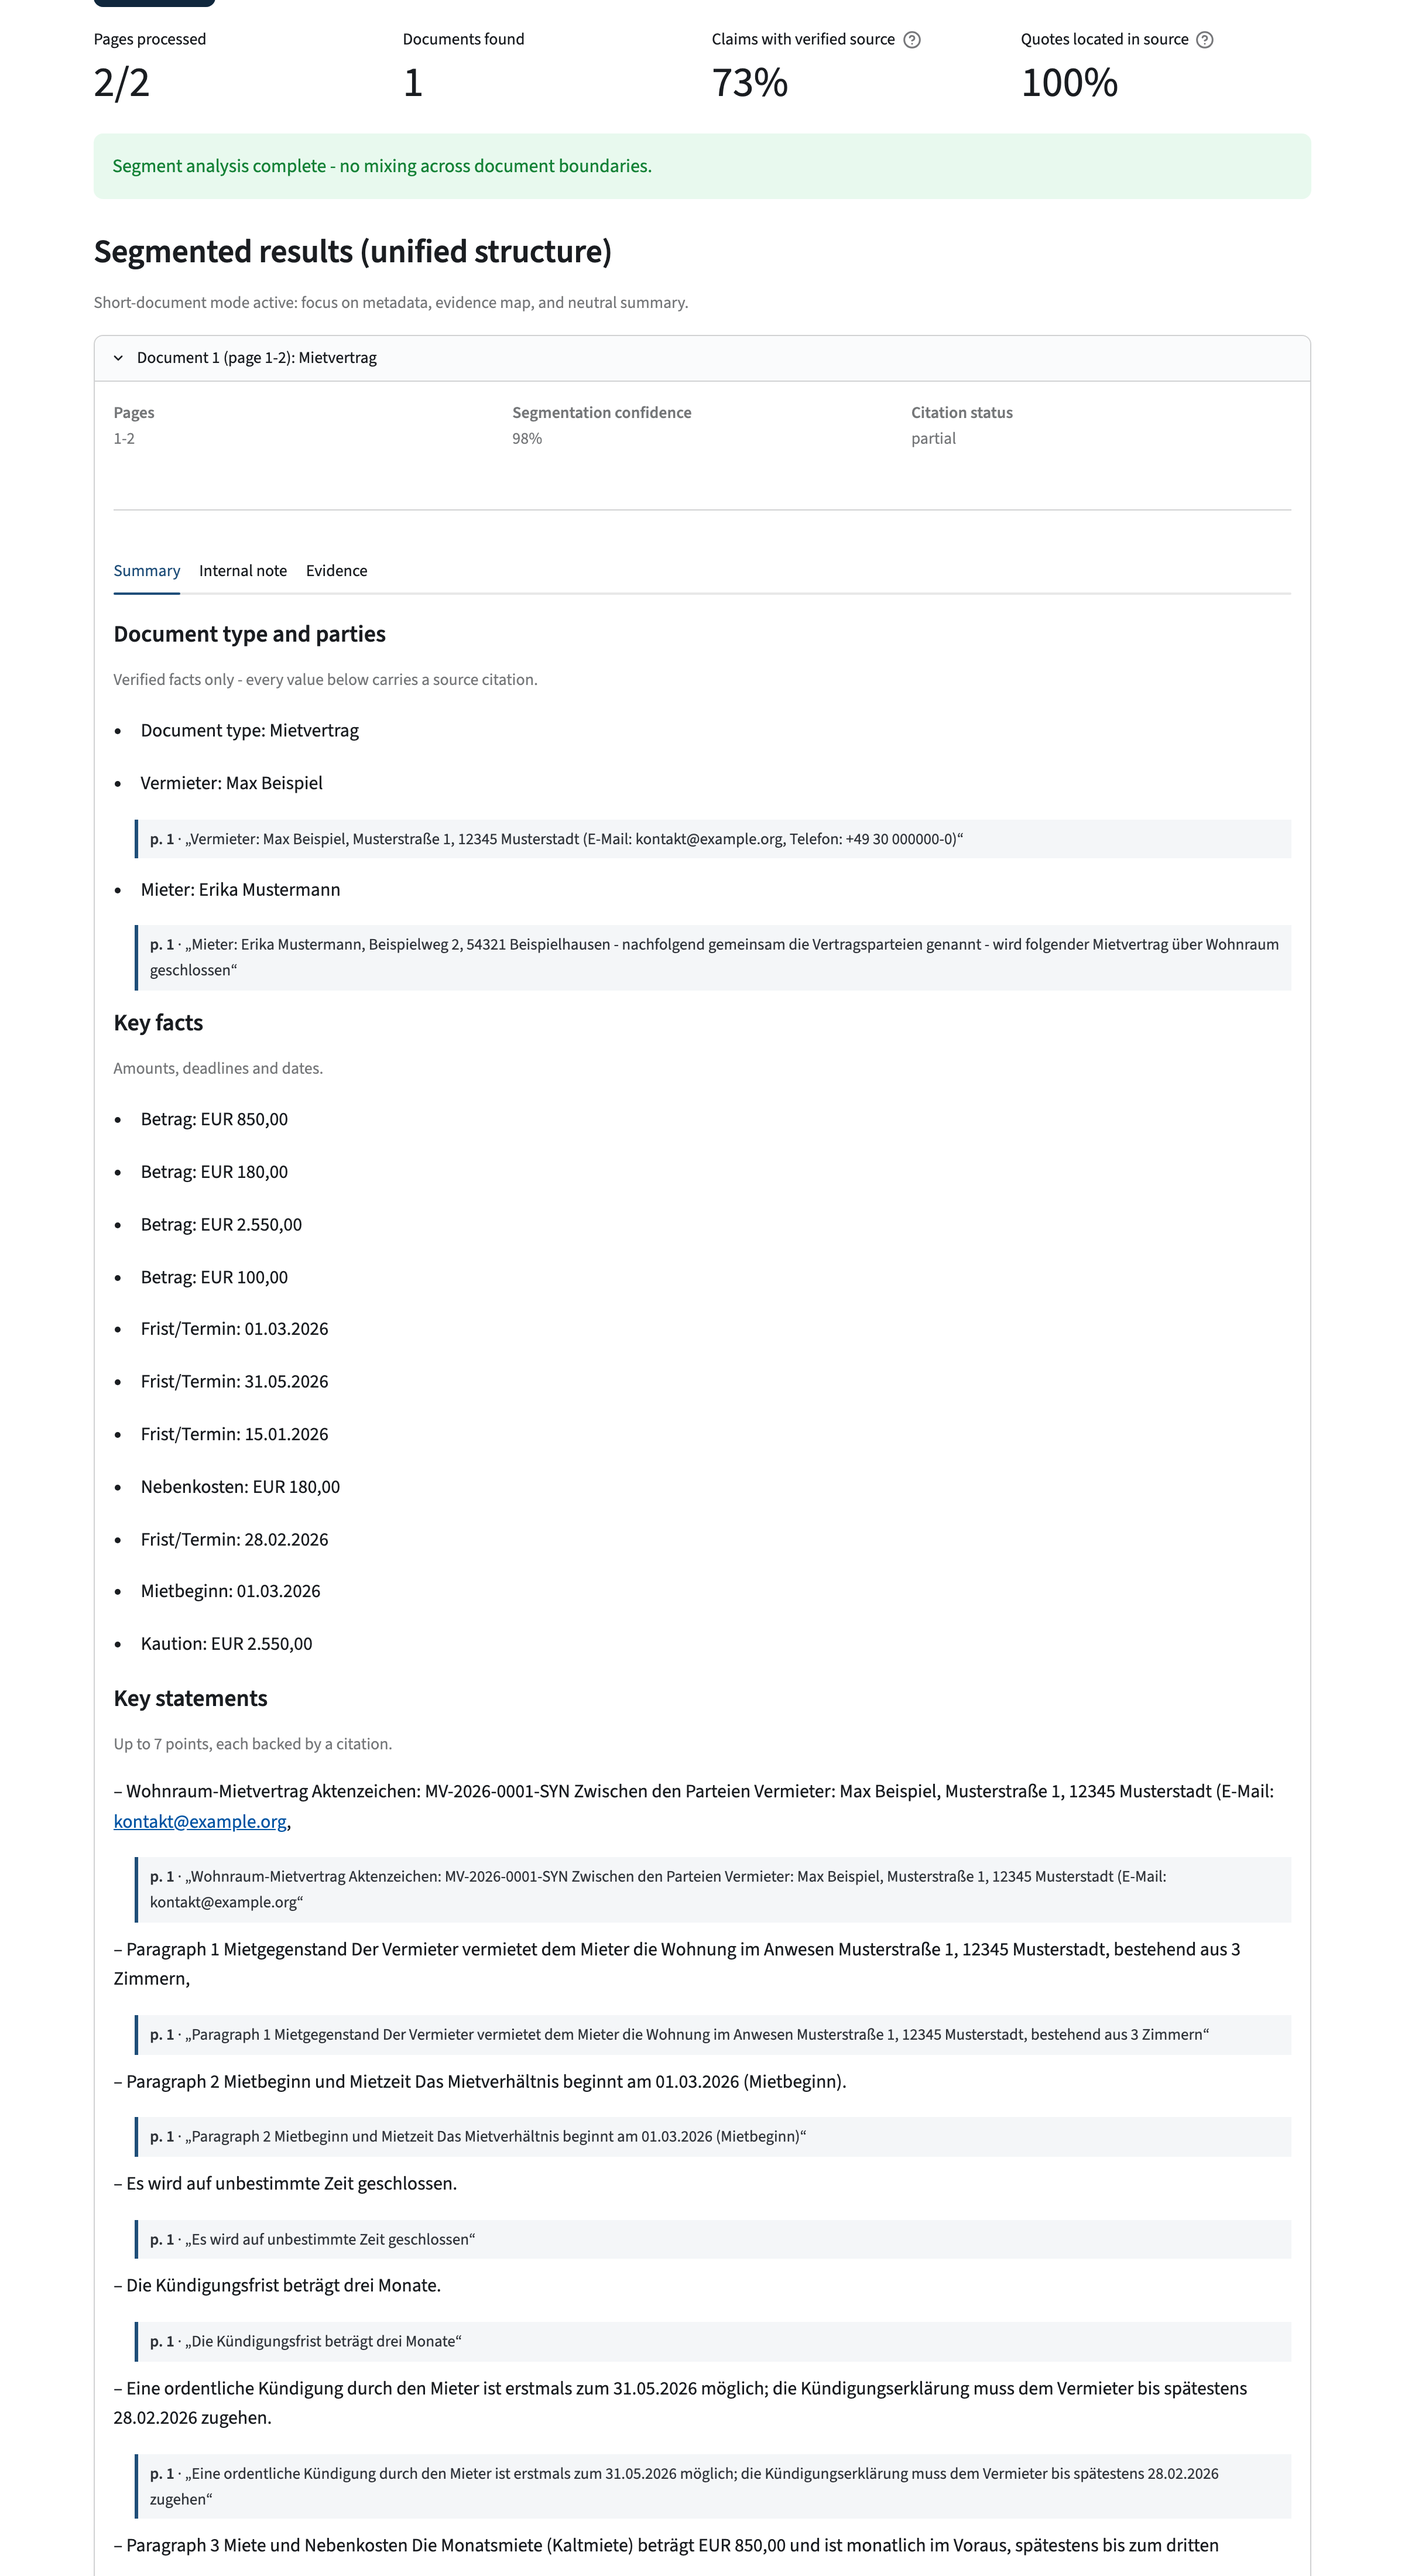
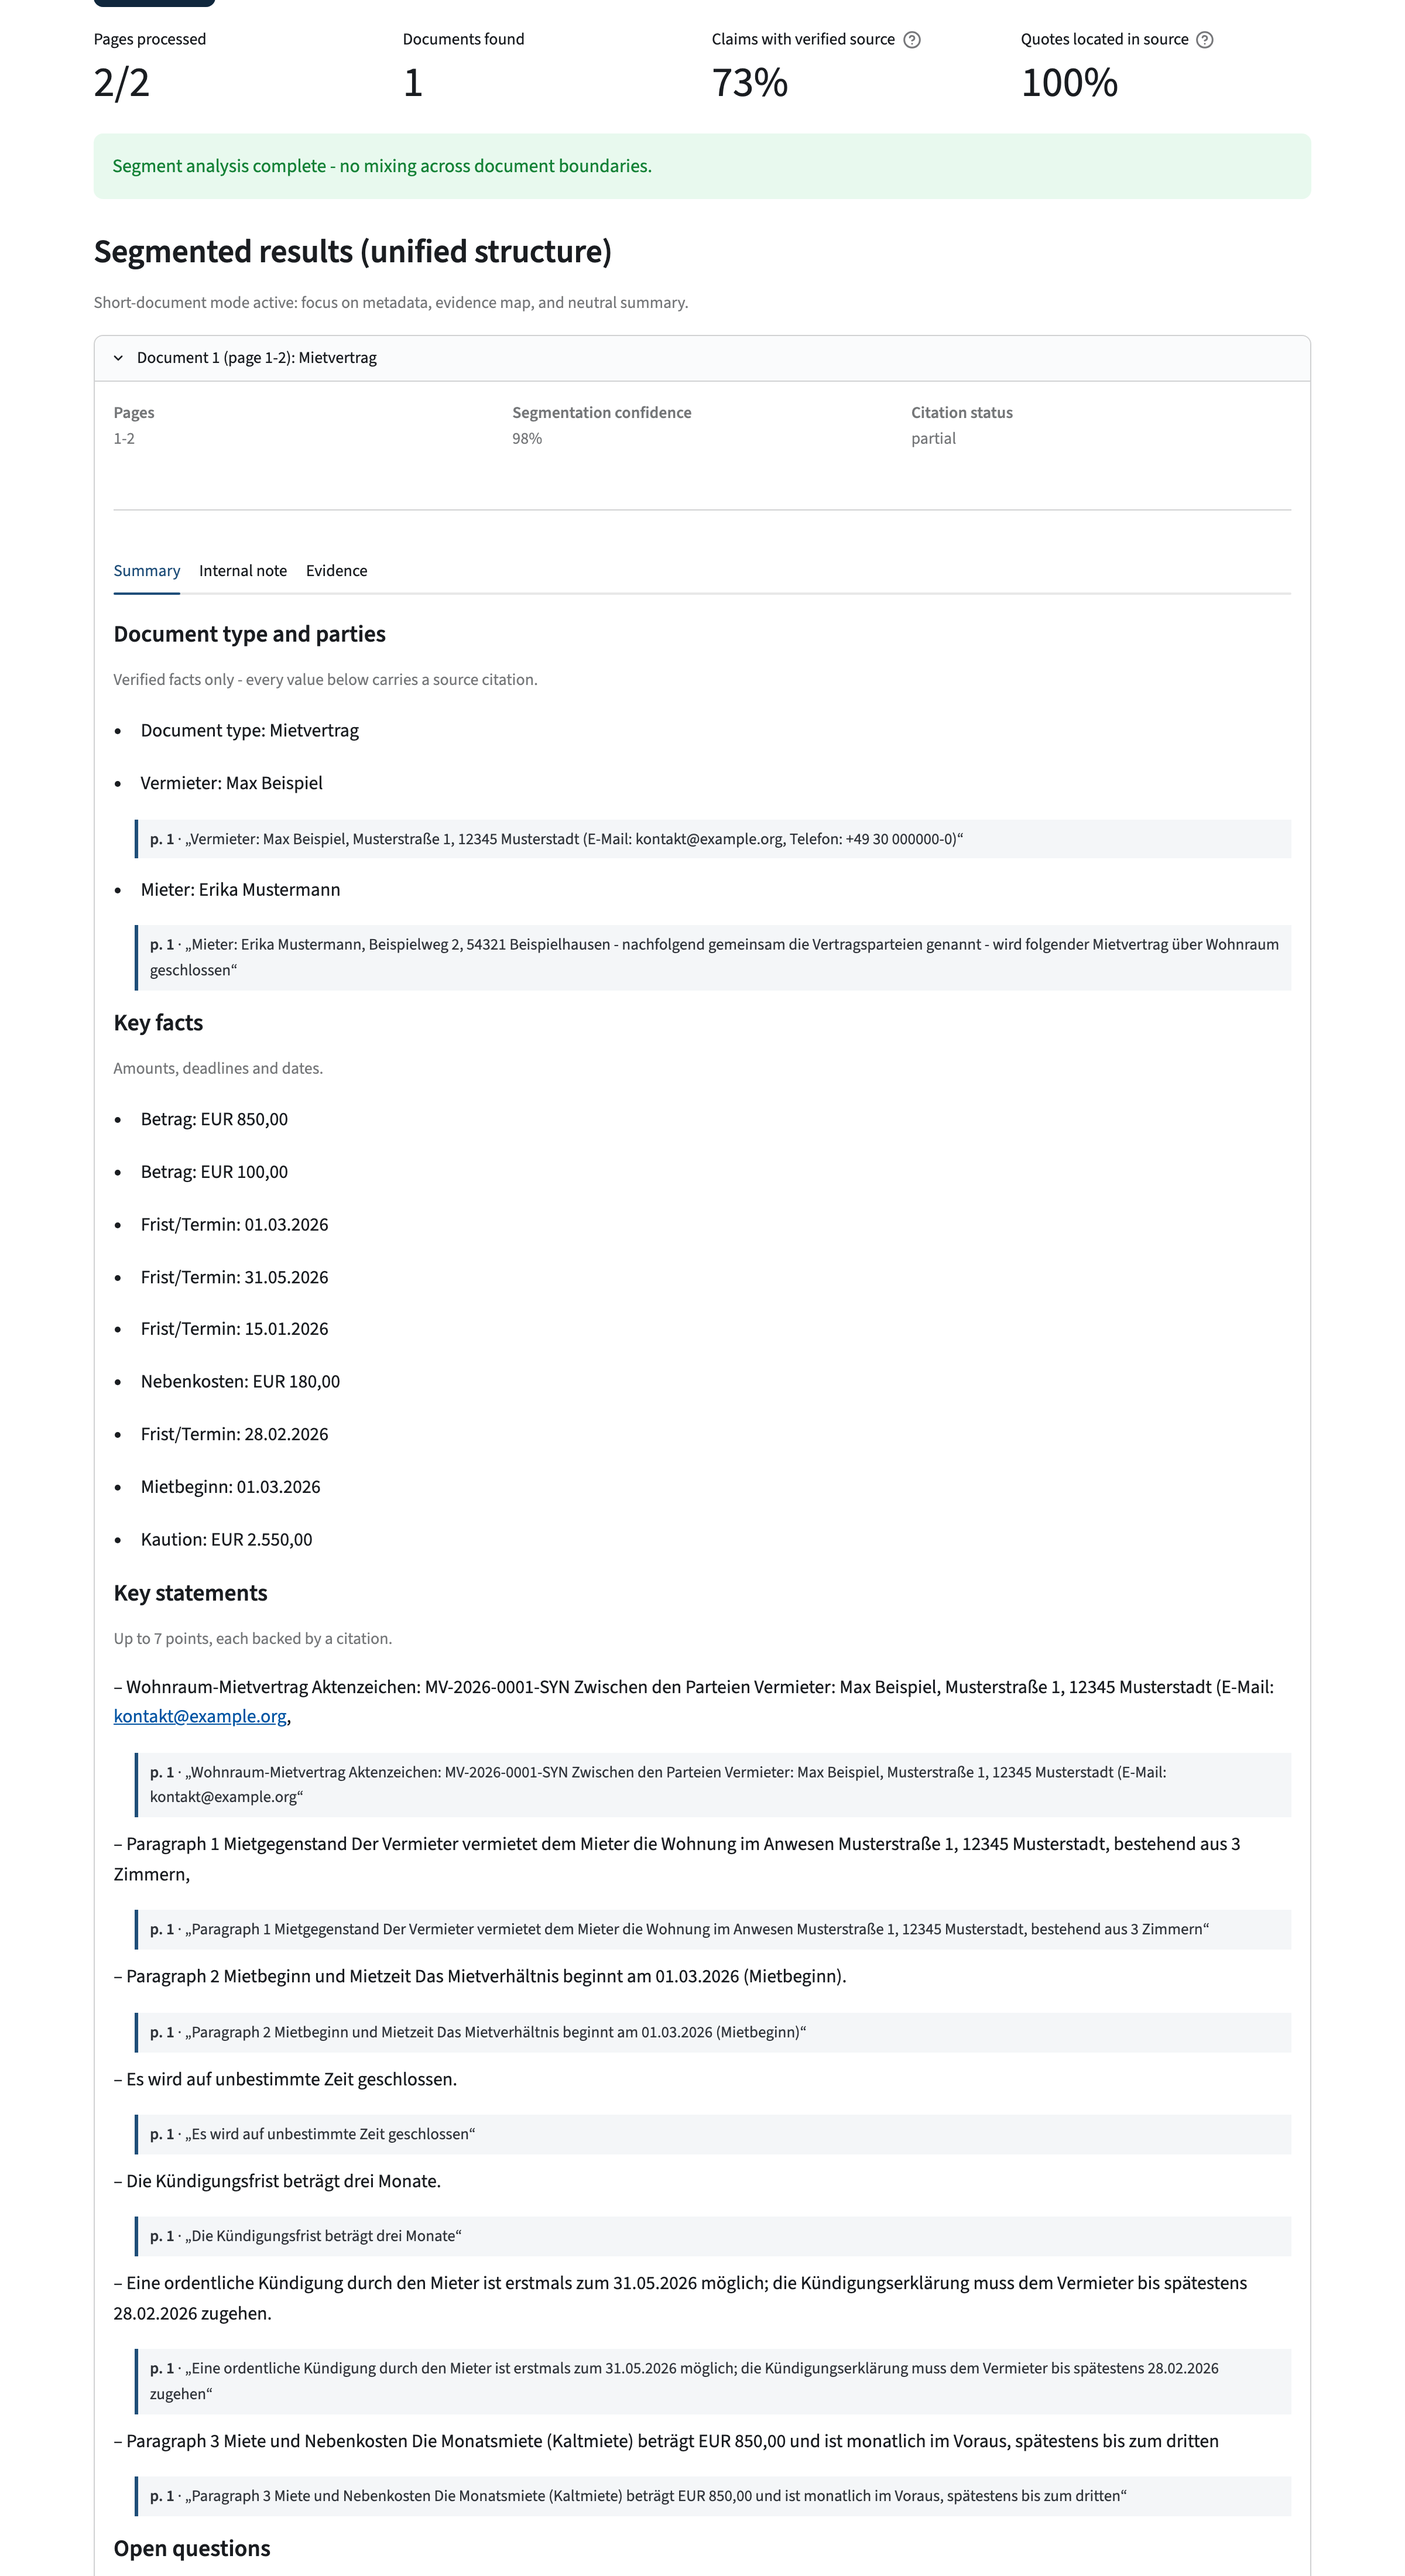
fix: drop contentless amount rows the specific label already covers
"Betrag: EUR 2.550,00" next to "Kaution: EUR 2.550,00" reads as a
duplicate - the generic row names no subject matter and adds nothing.
Suppression applies only to contentless labels ("Betrag", "Zahlung"),
and only when some labelled item carries the same amount; a generic row
with no counterpart is kept so no value is lost.

"Miete" stays out of that set deliberately: rent 4.200 alongside arrears
4.200 is one month in arrears - two facts sharing an amount, not a
duplicate. An existing test in test_amount_labeling.py pins that case.

Also state in the README what "73% verified" means, so the number reads
as the feature it is rather than as an accuracy defect.

Changed region(s): [[0.0625, 0.5605, 0.875, 0.9964], [0.0938, 0.467, 0.2188, 0.4982], [0.1562, 0.5293, 0.2188, 0.5605]]

diff --git a/tests/test_merge_llm_regex_eckdaten.py b/tests/test_merge_llm_regex_eckdaten.py
@@ -1,0 +1,145 @@
+"""
+tests/test_merge_llm_regex_eckdaten.py
+
+Tests für _merge_llm_regex_eckdaten (core/export_render.py).
+
+Kern-Vertrag: ein generisches Label ("Betrag") trägt keine Information mehr,
+sobald ein spezifisches Label denselben Betrag abdeckt ("Kaution: EUR 2.550,00").
+In der gerenderten Liste liest sich das als Dublette. Umgekehrt darf ein
+generischer Eintrag OHNE spezifisches Gegenstück nicht verschwinden — sonst
+geht ein Betrag ganz verloren.
+
+Die Suppression muss quellenunabhängig sein: es darf keine Rolle spielen, ob
+das spezifische Label aus den LLM-Items oder den Regex-Evidence-Items stammt.
+"""
+
+import unittest
+
+from core.export_render import _merge_llm_regex_eckdaten
+
+
+DOC_TYPE = "Mietvertrag"
+
+
+class TestGenerischeDublettenUnterdrueckt(unittest.TestCase):
+    """Generische Betrag-Zeilen verschwinden, wenn ein spezifisches Label greift."""
+
+    def setUp(self):
+        # Nachstellung des realen Renderer-Outputs für samples/01_mietvertrag_synthetic.pdf
+        self.llm = [
+            {"label": "Betrag", "wert": "EUR 850,00"},
+            {"label": "Betrag", "wert": "EUR 180,00"},
+            {"label": "Betrag", "wert": "EUR 2.550,00"},
+            {"label": "Betrag", "wert": "EUR 100,00"},
+            {"label": "Nebenkosten", "wert": "EUR 180,00"},
+            {"label": "Kaution", "wert": "EUR 2.550,00"},
+        ]
+
+    def _paare(self, items):
+        return {(i.get("label"), i.get("wert")) for i in items}
+
+    def test_generisch_mit_spezifischem_gegenstueck_entfernt(self):
+        out = _merge_llm_regex_eckdaten(self.llm, [], DOC_TYPE)
+        paare = self._paare(out)
+        self.assertNotIn(("Betrag", "EUR 180,00"), paare)
+        self.assertNotIn(("Betrag", "EUR 2.550,00"), paare)
+
+    def test_spezifische_labels_bleiben(self):
+        out = _merge_llm_regex_eckdaten(self.llm, [], DOC_TYPE)
+        paare = self._paare(out)
+        self.assertIn(("Nebenkosten", "EUR 180,00"), paare)
+        self.assertIn(("Kaution", "EUR 2.550,00"), paare)
+
+    def test_generisch_ohne_gegenstueck_bleibt_erhalten(self):
+        """Kein spezifisches Label → Betrag muss bleiben, sonst Informationsverlust."""
+        out = _merge_llm_regex_eckdaten(self.llm, [], DOC_TYPE)
+        werte = {i.get("wert") for i in out}
+        self.assertIn("EUR 850,00", werte)
+        self.assertIn("EUR 100,00", werte)
+
+    def test_kein_betrag_geht_verloren(self):
+        """Jeder Betrag der Eingabe erscheint noch unter irgendeinem Label."""
+        out = _merge_llm_regex_eckdaten(self.llm, [], DOC_TYPE)
+        vorher = {i["wert"] for i in self.llm}
+        nachher = {i["wert"] for i in out}
+        self.assertEqual(vorher, nachher)
+
+
+class TestQuellenunabhaengigkeit(unittest.TestCase):
+    """Das spezifische Label darf auch aus den Regex-Items kommen."""
+
+    def test_spezifisch_nur_aus_regex_unterdrueckt_generisch(self):
+        out = _merge_llm_regex_eckdaten(
+            [{"label": "Betrag", "wert": "EUR 2.550,00"}],
+            [{
+                "field": "kaution",
+                "value": "EUR 2.550,00",
+                "quote": "Die Kaution beträgt EUR 2.550,00",
+                "page": 1,
+            }],
+            DOC_TYPE,
+        )
+        self.assertFalse(
+            [i for i in out if i.get("label") == "Betrag"],
+            "generisches Label überlebt, wenn das spezifische erst aus den "
+            "Regex-Items kommt → Ergebnis wäre reihenfolgeabhängig",
+        )
+
+
+class TestBestehendeVertraege(unittest.TestCase):
+    """Verhalten, das der Fix nicht verändern darf."""
+
+    def test_leere_llm_items_geben_leere_liste(self):
+        """Caller unterscheidet daran den Regex-only-Fallback."""
+        out = _merge_llm_regex_eckdaten(
+            [], [{"field": "kaution", "value": "EUR 1,00", "quote": "", "page": 1}], DOC_TYPE
+        )
+        self.assertEqual(out, [])
+
+    def test_mietbeginn_relabeling_bleibt_intakt(self):
+        out = _merge_llm_regex_eckdaten(
+            [{"label": "Mietbeginn", "wert": "01.03.2026"}], [], "Kaufvertrag"
+        )
+        self.assertEqual([i["label"] for i in out], ["Beginn"])
+
+    def test_mietbeginn_bleibt_in_mietdokument(self):
+        out = _merge_llm_regex_eckdaten(
+            [{"label": "Mietbeginn", "wert": "01.03.2026"}], [], DOC_TYPE
+        )
+        self.assertEqual([i["label"] for i in out], ["Mietbeginn"])
+
+    def test_sachlabel_wird_nicht_als_dublette_entfernt(self):
+        """"Miete" benennt einen Sachverhalt und darf nie unterdrückt werden.
+
+        Miete 4.200 und Rückstand 4.200 sind ein Monat Mietrückstand — zwei
+        Fakten mit zufällig gleichem Betrag, keine Dublette.
+        """
+        out = _merge_llm_regex_eckdaten(
+            [{"label": "Miete", "wert": "EUR 4.200,00"}],
+            [{
+                "field": "rueckstand",
+                "value": "EUR 4.200,00",
+                "quote": "Mietrückstand EUR 4.200,00",
+                "page": 1,
+            }],
+            DOC_TYPE,
+        )
+        labels = [i["label"] for i in out]
+        self.assertIn("Miete", labels)
+        self.assertIn("Rückstand", labels)
+
+    def test_datumswerte_nicht_von_suppression_betroffen(self):
+        """Suppression greift über kanonische Beträge - Datumsangaben bleiben unberührt."""
+        out = _merge_llm_regex_eckdaten(
+            [
+                {"label": "Betrag", "wert": "01.03.2026"},
+                {"label": "Kaution", "wert": "01.03.2026"},
+            ],
+            [],
+            DOC_TYPE,
+        )
+        self.assertEqual(len(out), 2)
+
+
+if __name__ == "__main__":
+    unittest.main()

diff --git a/core/export_render.py b/core/export_render.py
@@ -621,6 +621,19 @@ _GENERIC_ECKDATEN_LABELS: frozenset[str] = frozenset({
     "miete", "betrag", "zahlung", "mietzahlung",
 })
 
+# Labels that name no subject matter at all - they say "there is a number here"
+# and nothing else. Only these may be dropped from the LLM items when another
+# label already carries the same amount.
+#
+# Deliberately narrower than _GENERIC_ECKDATEN_LABELS: "Miete" is generic as a
+# regex fallback, but it does name a subject matter. "Miete: EUR 4.200,00"
+# alongside "Rückstand: EUR 4.200,00" is one month's rent in arrears - two
+# distinct facts that happen to share an amount, not a duplicate. Dropping one
+# would lose information rather than tidy the list.
+_CONTENTLESS_ECKDATEN_LABELS: frozenset[str] = frozenset({
+    "betrag", "zahlung",
+})
+
 
 def _merge_llm_regex_eckdaten(
     llm_items: list[dict],
@@ -629,7 +642,10 @@ def _merge_llm_regex_eckdaten(
 ) -> list[dict]:
     """FIX 4: Merge LLM-eckdaten with specific-label regex evidence items.
 
-    - LLM items are always kept.
+    - LLM items are kept, except contentless-label ones ('Betrag', 'Zahlung') whose
+      amount is already covered by a labelled item from either source - those are
+      duplicates in the rendered list. Such an item is kept when its amount has no
+      labelled counterpart, so no value is silently dropped.
     - Regex items with generic labels ('Miete', 'Betrag', 'Zahlung') are suppressed
       when an LLM item already covers the same canonical amount.
     - Regex items with specific labels ('Rückstand', 'Schadensersatz', 'Kaution')
@@ -656,9 +672,47 @@ def _merge_llm_regex_eckdaten(
     # FIX 2: Relabel "Mietbeginn" → "Beginn" when doc is not a Miet/Räumung document.
     doc_type_l = str(doc_type or "").lower()
     _is_miet_doc = any(k in doc_type_l for k in ("miet", "räum", "raeumung"))
+
+    # Amounts that some *specific* label already accounts for. Collected from both
+    # sources up front, so the outcome does not depend on the order in which the
+    # two loops below happen to append. A generic entry ("Betrag: EUR 2.550,00")
+    # carries no information once "Kaution: EUR 2.550,00" is on the list - it just
+    # reads as a duplicate. Generic entries whose amount has no specific
+    # counterpart are kept: dropping those would lose a value entirely.
+    # _norm_amount_canonical also returns a key for dates and plain words, so it
+    # alone is too broad a match here - restrict the comparison to actual amounts.
+    def _amount_key(raw: str) -> str | None:
+        text = str(raw or "")
+        if not re.search(r"\d[\d.]*,\d{2}\b", text):
+            return None
+        return _norm_amount_canonical(text) or None
+
+    specific_amounts: set[str] = set()
+    for item in llm_items:
+        lbl = str(item.get("label", "") or "").lower()
+        ca = _amount_key(item.get("wert", ""))
+        if ca and lbl and lbl not in _CONTENTLESS_ECKDATEN_LABELS:
+            specific_amounts.add(ca)
+    for ev in evidence_items or []:
+        value = str(ev.get("value", "") or "").strip()
+        if not value or value == "missing":
+            continue
+        lbl = _human_label_for_evidence(
+            str(ev.get("field", "") or "").lower(), value,
+            str(ev.get("quote", "") or ""), doc_type,
+        )
+        ca = _amount_key(value)
+        if ca and lbl and lbl.lower() not in _CONTENTLESS_ECKDATEN_LABELS:
+            specific_amounts.add(ca)
+
     merged = []
     for item in llm_items:
-        if str(item.get("label", "") or "") == "Mietbeginn" and not _is_miet_doc:
+        label = str(item.get("label", "") or "")
+        if label.lower() in _CONTENTLESS_ECKDATEN_LABELS:
+            canonical = _amount_key(item.get("wert", ""))
+            if canonical and canonical in specific_amounts:
+                continue
+        if label == "Mietbeginn" and not _is_miet_doc:
             item = dict(item)
             item["label"] = "Beginn"
         merged.append(item)

diff --git a/README.md b/README.md
@@ -17,9 +17,13 @@ management) where an unsourced claim is worse than no answer at all.
 ![The result view: verification metrics across the top, and every extracted value below
 carrying the page and the verbatim quote it came from.](docs/screenshot-result.png)
 
-*Analysing a synthetic German lease in demo mode — no credentials, no real document. The
-percentages are measured, not decorative: they report how many of the model's claims could
-actually be traced back to the source text.*
+*Analysing a synthetic German lease in demo mode — no credentials, no real document.*
+
+*The percentages are measured, not decorative. **"Claims with verified source: 73%"** is
+the point of the project, not a defect: the system checked every claim the model made,
+traced 73% of them back to a verbatim quote in the source, and says so instead of
+presenting all of them as equally sound. The alternative — the default for most LLM
+summarizers — is 100% confident output with no way to tell which quarter is unfounded.*
 
 ---
 
@@ -221,7 +225,7 @@ services/               orchestration between UI and pipeline
 ui/                     Streamlit render layer
 workflows/              document-type-specific analysis flows
 samples/                synthetic sample documents
-tests/                  56 test modules
+tests/                  unit + smoke tests (~1100 cases)
 ```
 
 ---
